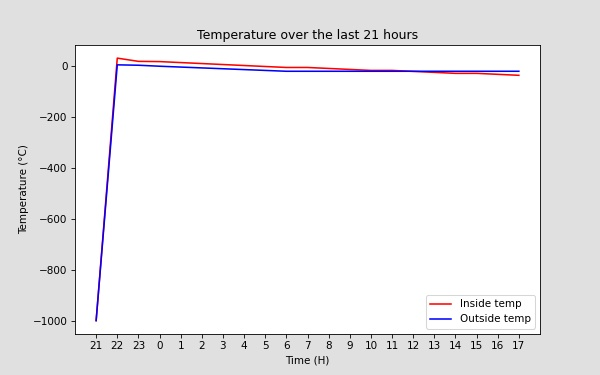
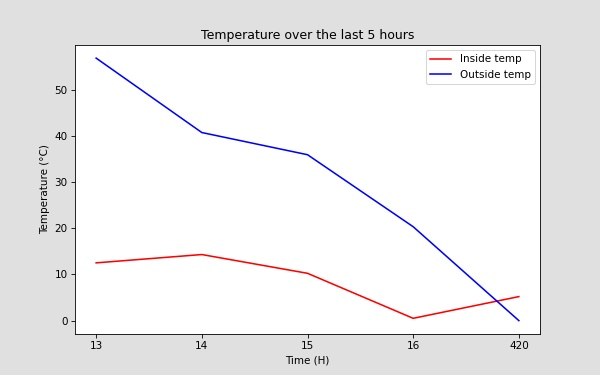
file read changes, removed unused code

diff --git a/graphic_window.py b/graphic_window.py
@@ -6,25 +6,30 @@ WAIT_TIME = 1       #Seconds
 WINDOW_WIDTH = 600  #Pixels
 WINDOW_HEIGHT = 500 #Pixels
 WINDOW_TITLE = "Temperature"
-MEMORY_PATH = 'memory.csv'
 
 #Read data from .csv file where values are formatted inside,outside\ninside,outside ....
-def read_memory(csv_path):
+def read_memory(mem_path):
     out_data = []
+    hours = []
     try:
-        with open(csv_path, "r") as memory:
+        with open(mem_path, "r") as memory:
             content_rows = memory.readlines()
     except FileNotFoundError:
         return
-    if len(content_rows) > 24:
-        content_rows = content_rows[-25:-1] #Get values of last 24 hours, last value is None due to \n so ignore that
     for val in content_rows:
         stripped = val.rstrip("\n")
+        hour = stripped.split(" ")[0].rstrip(":")
+        values = stripped.split(" ")[1]
         if stripped:
-            values = stripped.split(",")
-            out_data.append((float(values[0]), float(values[1])))
-    #Return a list of tuples
-    return out_data
+            out_data.append((float(values.split(",")[0]), float(values.split(",")[1])))
+            hours.append(hour)
+    #Return a list of tuples with data and a corresponding list of hours
+    return out_data, hours
+
+def get_mem_path():
+    date = datetime.now().date()
+    path = f"temp/{date}.txt"
+    return path
 
 #Input needs needed as a list of tuples,
 #where each tuple(inside_temp, outside_temp)
@@ -37,7 +42,7 @@ def get_current_values(data):
     length = len(data)
     #Loop through data to find the max, min and average values
     for values in data:
-        for i, value in enumerate(values):
+        for i, value in enumerate(values[1:2]):
             if value > max[i]: max[i] = value
             if value < min[i]: min[i] = value
             avg[i] += (value / length)
@@ -68,12 +73,10 @@ def initialize():
     window = pg.window.Window(WINDOW_WIDTH, WINDOW_HEIGHT, WINDOW_TITLE)
     pg.gl.glClearColor(0.8784313725490196, 0.8784313725490196, 0.8784313725490196, 1) #Background color to light grey
     
-    temp_data = read_memory(MEMORY_PATH)
+    temp_data, hours = read_memory(get_mem_path())
     window.set_icon(icon)
     in_data, out_data = get_current_values(temp_data)
-    horizontal = [((datetime.now().hour - x) % 24) for x in range(len(temp_data))] #Last n hours for the x-axis
-    horizontal.reverse()    
-    fig = data_to_graph(fig, temp_data, horizontal)
+    fig = data_to_graph(fig, temp_data, hours)
     graph = pg.image.load('images/graph.jpg')
     sprite = pg.sprite.Sprite(graph, x=0, y=10)
     return window, fig, ax, in_data, out_data, sprite
@@ -91,10 +94,8 @@ head_label = pg.text.Label(text="Currently",
 def update(dt):
     #Update the sprites and labels according to the memory file
     global sprite, fig, ax
-    temp_data = read_memory(MEMORY_PATH)                               #Read data from csv
-    horizontal = [((datetime.now().hour - x) % 24) for x in range(len(temp_data))] #Last 24 hours for the x-axis
-    horizontal.reverse()                                               #Reverse the order to match the data
-    fig = data_to_graph(fig, temp_data, horizontal)                    #Update the existing figure and save as jpg
+    temp_data, hours = read_memory(get_mem_path())                     #Read data from csv
+    fig = data_to_graph(fig, temp_data, hours)                         #Update the existing figure and save as jpg
     ax.set_facecolor("#E0E0E0")                                        #Reset axis color to match bg
     graph = pg.image.load('images/graph.jpg')                          #Load graph
     sprite = pg.sprite.Sprite(graph, x=0, y=10)                        #Set graph as sprite

diff --git a/raspmain.py b/raspmain.py
@@ -2,29 +2,12 @@ import raspbt
 from datetime import date, datetime
 import time
 
-MEMORY_PATH = ""
+memory_path = ""
 
-def memory_manage(path):
-    new_content = []
-    try:
-        with open(path, "r") as memory:
-            content = memory.readlines()
-        if len(content) > 48:
-            content = content[-25:-1]
-        for line in content:
-            new_line = line.rstrip("\n")
-            if len(new_line) > 0:
-                new_content.append(new_line)
-        with open(path, "w") as memory:
-            memory.write("\n".join(new_content))
-    except (FileNotFoundError, PermissionError):
-        print("Error when opening memory file!")
-
-
-#Take list of two values and write into file with csv format
+#Take list of two values and write into file with format->  HH: OO.OO,II.II\n
 def data_to_memory(data):
     try:
-        with open(f"{MEMORY_PATH}", "a+") as memfile:
+        with open(f"{memory_path}", "a+") as memfile:
             hour = get_hour()
             memfile.write(f"{hour}: {data[0]},{data[1]}\n")
     except (FileNotFoundError, PermissionError):
@@ -40,8 +23,8 @@ def get_hour():
 
 
 def update_memory_path():
-    global MEMORY_PATH
-    MEMORY_PATH = "temp/" + str(get_date()) + ".txt"
+    global memory_path
+    memory_path = "temp/" + str(get_date()) + ".txt"
 
 
 def main():
@@ -58,7 +41,6 @@ def main():
                 data, sock = raspbt.main_data()
                 startTime = time.time()
                 update_memory_path()
-                #memory_manage(MEMORY_PATH)
                 data_to_memory(data)
                 timeUntilSync = raspbt.main_sleep(sock)
         except UnicodeDecodeError:
